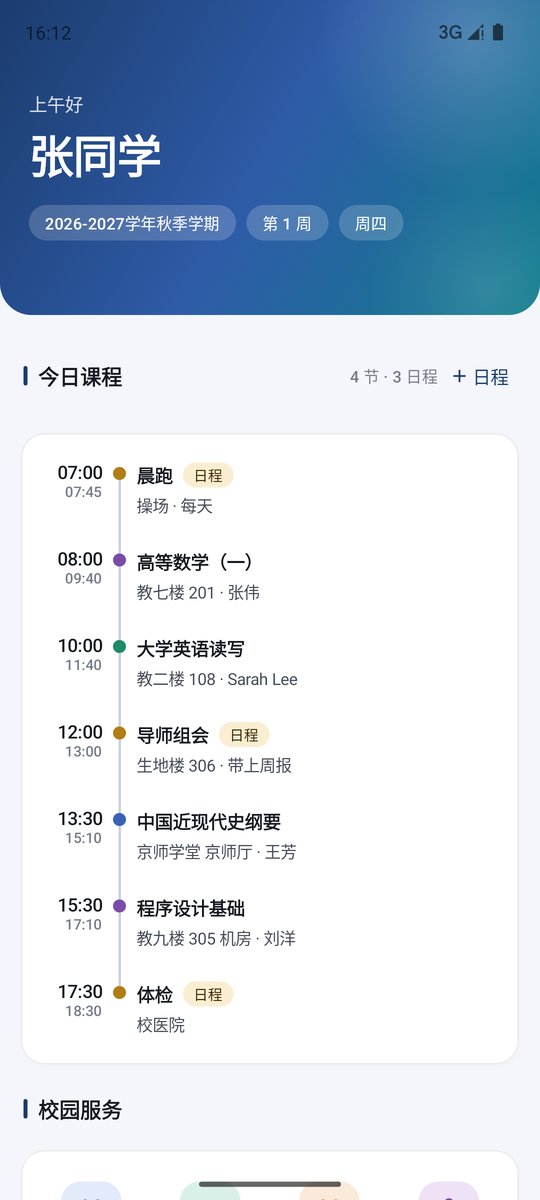
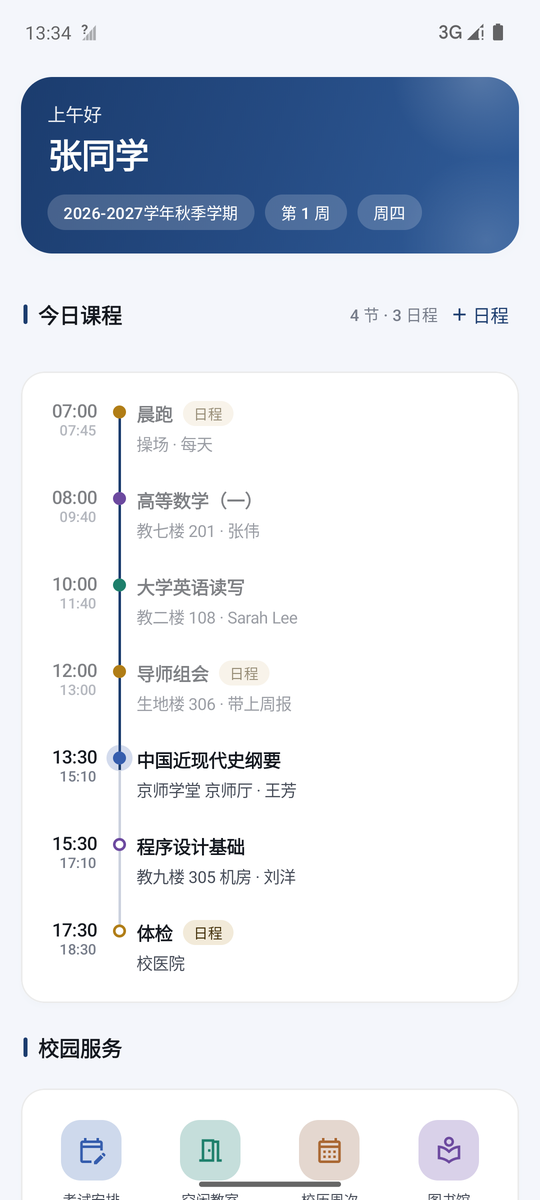
fix: 日程编辑标题居中、事件占位只写「事件」，更新首页截图

diff --git a/app/src/main/java/io/github/joyreverie/onebnu/ui/event/EventEditorSheet.kt b/app/src/main/java/io/github/joyreverie/onebnu/ui/event/EventEditorSheet.kt
@@ -11,6 +11,7 @@ import androidx.compose.material.icons.outlined.Place
 import androidx.compose.material3.HorizontalDivider
 import androidx.compose.ui.graphics.Color
 import androidx.compose.ui.text.TextStyle
+import androidx.compose.ui.text.style.TextAlign
 import io.github.joyreverie.onebnu.ui.theme.LocalAccents
 import io.github.joyreverie.onebnu.ui.theme.Shape
 import androidx.compose.foundation.background
@@ -131,8 +132,9 @@ fun EventEditorSheet(
         ) {
             Text(
                 if (initial == null) "添加日程" else "编辑日程",
-                Modifier.padding(start = 4.dp, bottom = 14.dp),
+                Modifier.fillMaxWidth().padding(bottom = 14.dp),
                 style = MaterialTheme.typography.headlineSmall,
+                textAlign = TextAlign.Center,
             )
 
             // 事件名单独一组，字号放大，像一张卡片的标题
@@ -151,7 +153,7 @@ fun EventEditorSheet(
                     InlineField(
                         value = title,
                         onValueChange = { title = it },
-                        placeholder = "事件，如：体检、组会、讲座",
+                        placeholder = "事件",
                         style = MaterialTheme.typography.titleLarge,
                         singleLine = true,
                     )
